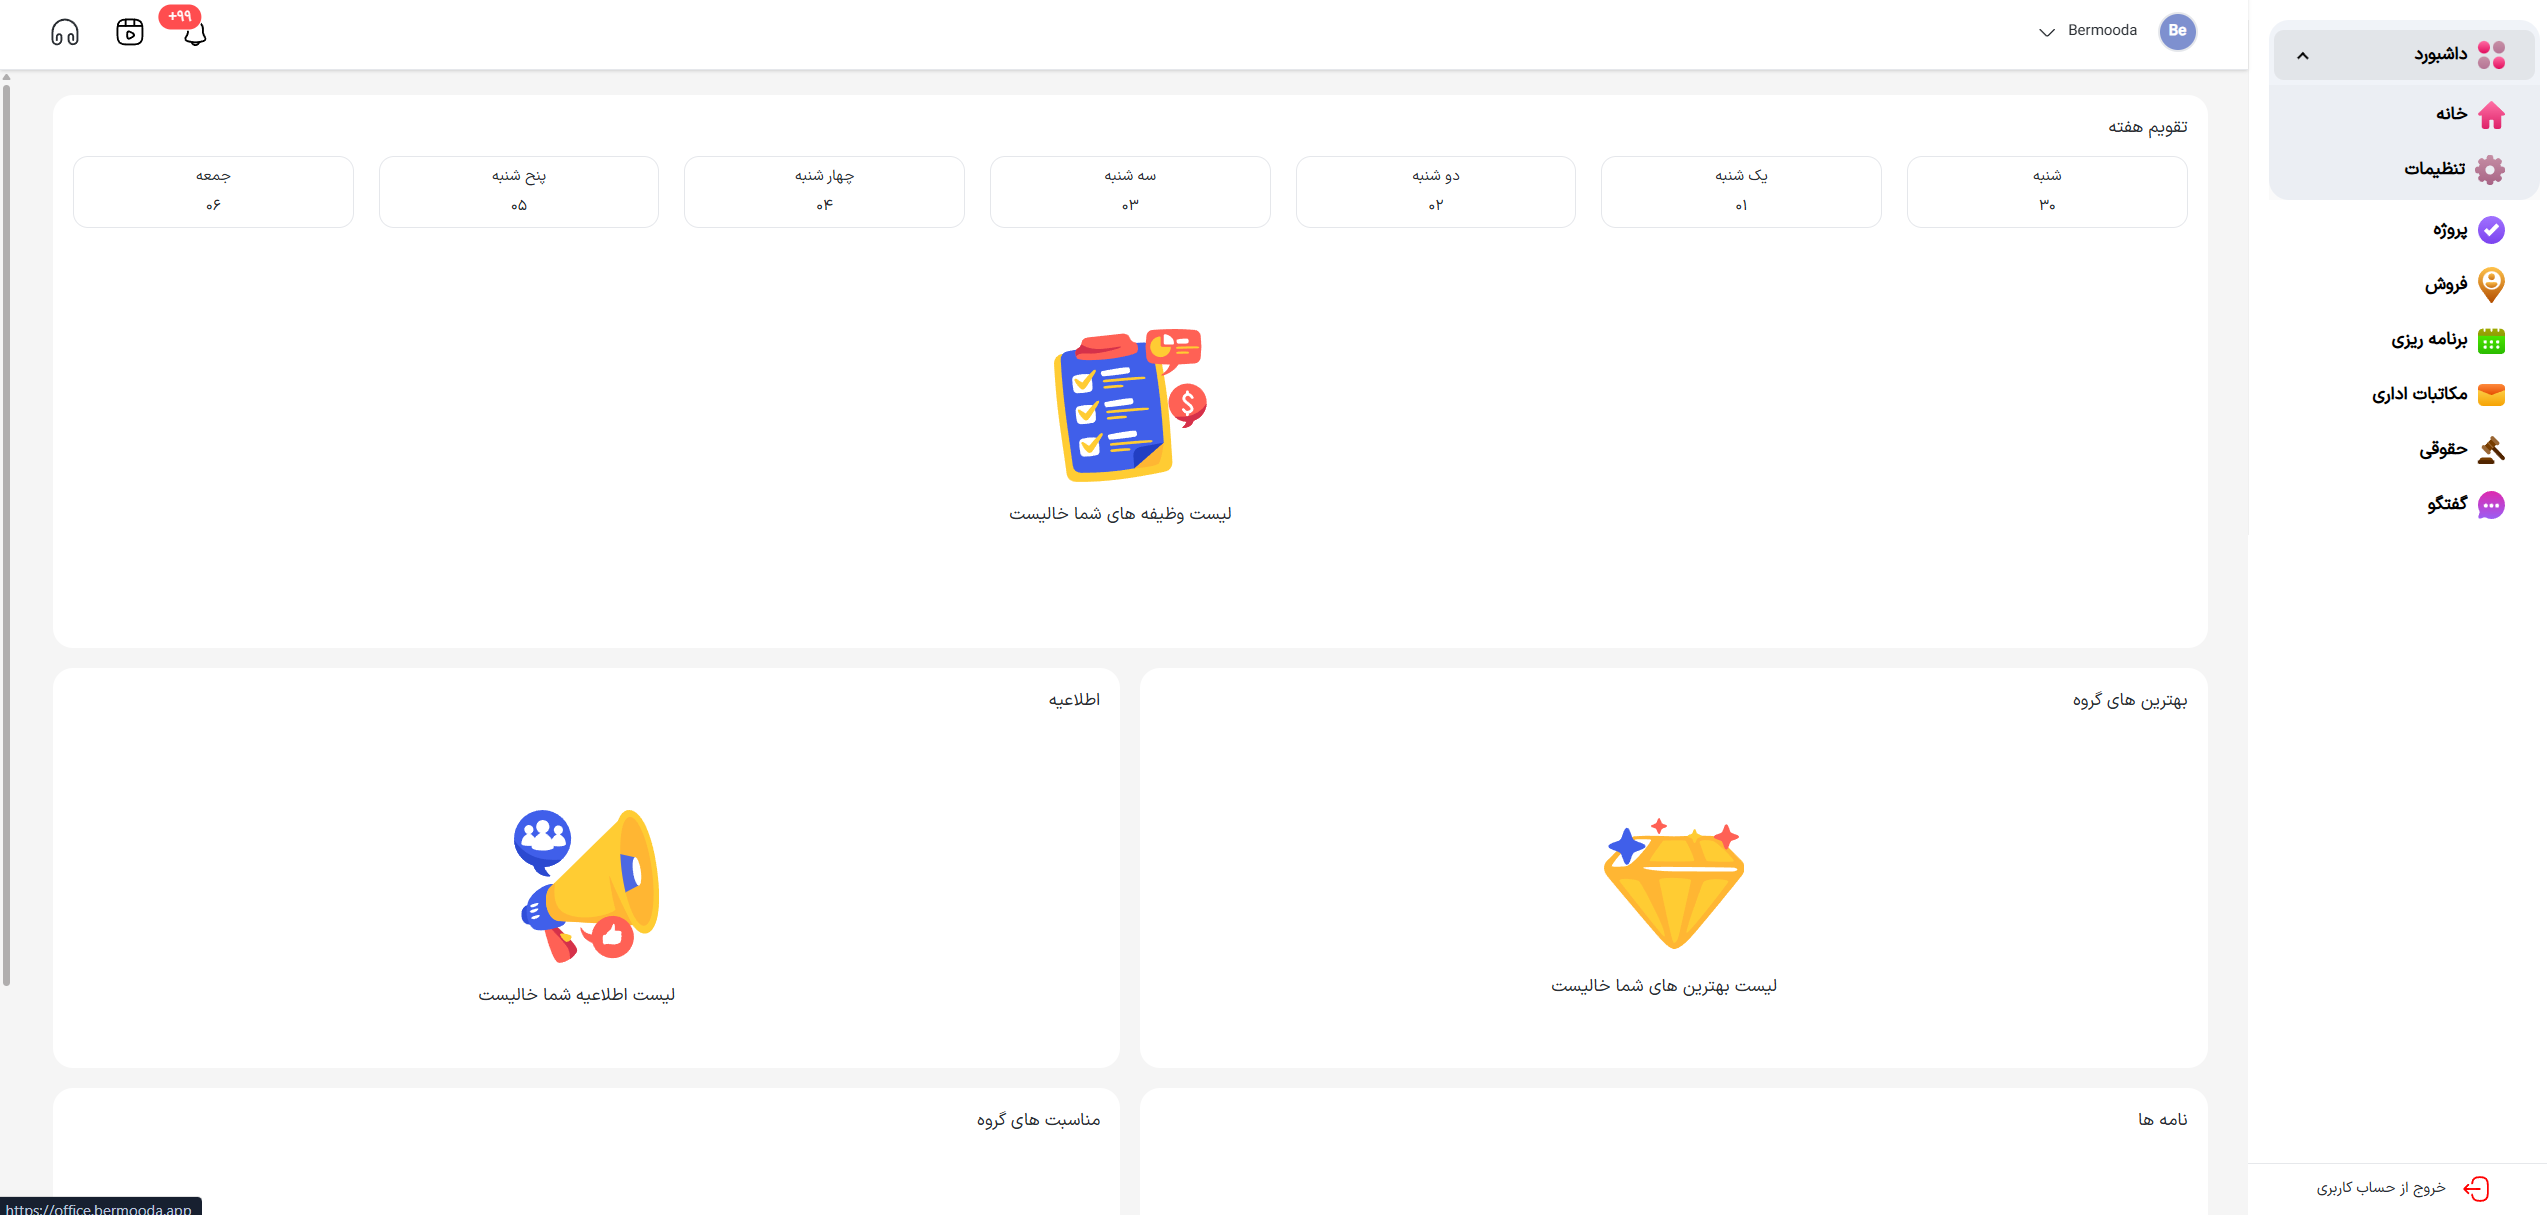
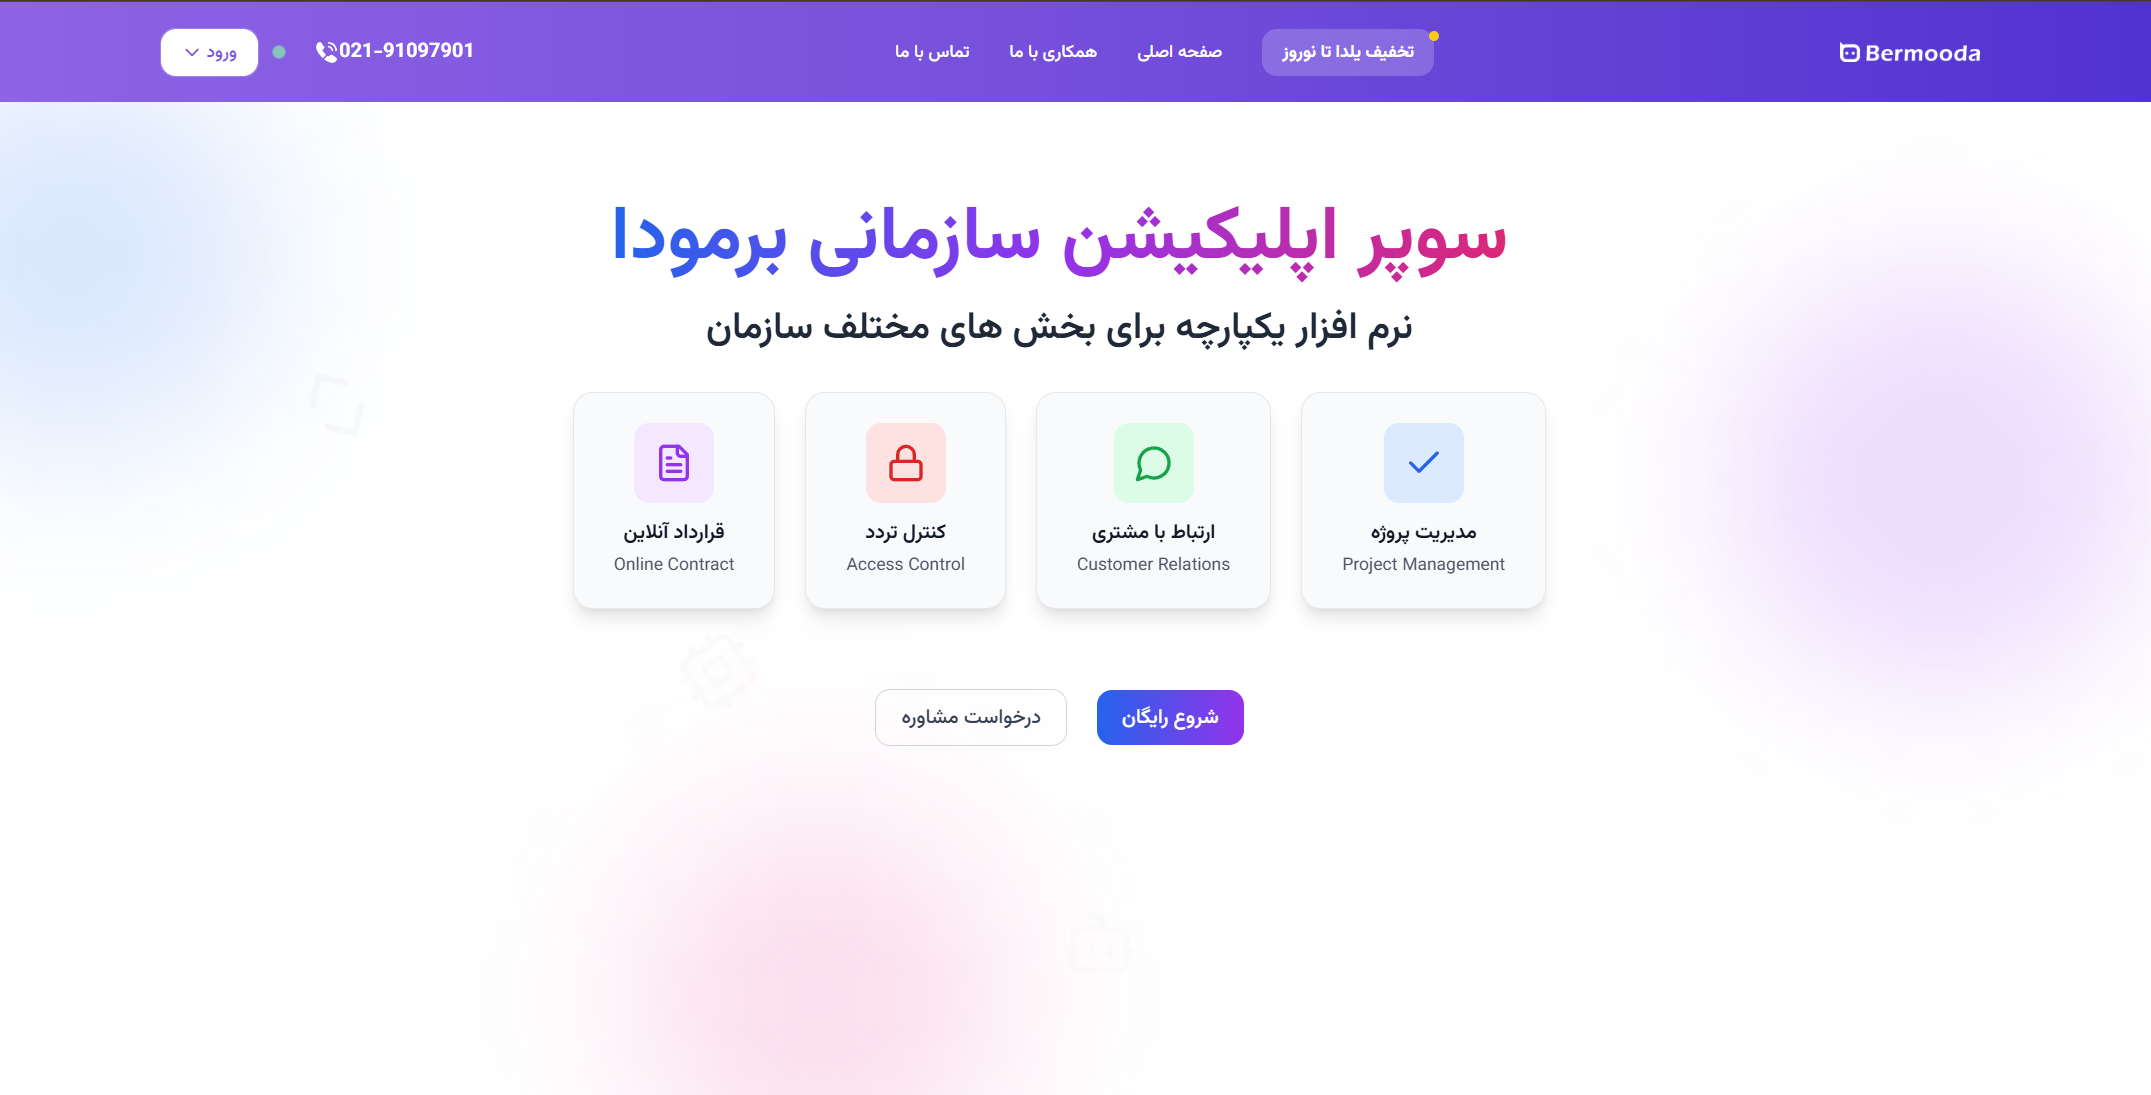
new projects

diff --git a/lib/variables.ts b/lib/variables.ts
@@ -9,16 +9,26 @@ export const frontendProjects: Project[] = [
     gradient: "from-rose-500/30 to-orange-500/20",
     image: "/trust1.png",
     second_image: "/trust2.png",
-    placeholder: "TS",
+    placeholder: "GS",
   },
   {
     name: "Bermooda",
-    link: "https://office.bermooda.app",
+    // link: "https://office.bermooda.app",
+    link: "https://bermooda.app",
     stack: ["Next.js", "Tailwind", "Redux", "Ant Design", "React Query", "TypeScript"],
     gradient: "from-fuchsia-500/30 to-violet-500/20",
     image: "/bermooda1.png",
     second_image: "/bermooda2.png",
     placeholder: "BM",
+  },
+  {
+    name: "Farkhonde Dolat (FullStack)",
+    link: "https://farkhonde-dolat-abad.ir",
+    stack: ["Nestjs", "PostgreSql", "TypeOrm", "Next.js", "TypeScript", "Tailwind", "Zustand", "React Query", "Shadcn"],
+    gradient: "from-rose-500/30 to-orange-500/20",
+    image: "/dolat1.png",
+    second_image: "/dolat2.png",
+    placeholder: "FD",
   },
   {
     name: "Atic Shop",
@@ -31,7 +41,8 @@ export const frontendProjects: Project[] = [
   },
   {
     name: "JahanZar",
-    link: "https://jahan-zar.vercel.app",
+    // link: "https://jahan-zar.vercel.app",
+    link: "https://jahanzar.com",
     stack: ["Next.js", "Tailwind", "Redux"],
     gradient: "from-amber-400/30 to-yellow-600/20",
     image: "/jahanzar1.png",
@@ -158,6 +169,15 @@ export const frontendProjects: Project[] = [
 ];
 
 export const backendProjects: BackProject[] = [
+  {
+    name: "Farkhonde Dolat (FullStack)",
+    link: "https://farkhonde-dolat-abad.ir",
+    stack: ["Nestjs", "PostgreSql", "TypeOrm", "Next.js", "TypeScript", "Tailwind", "Zustand", "React Query", "Shadcn"],
+    gradient: "from-rose-500/30 to-orange-500/20",
+    image: "/dolat1.png",
+    second_image: "/dolat2.png",
+    placeholder: "FD",
+  },
   {
     name: "Shop (Express)",
     link: "https://shop-express-kj5q.onrender.com/swagger/",
